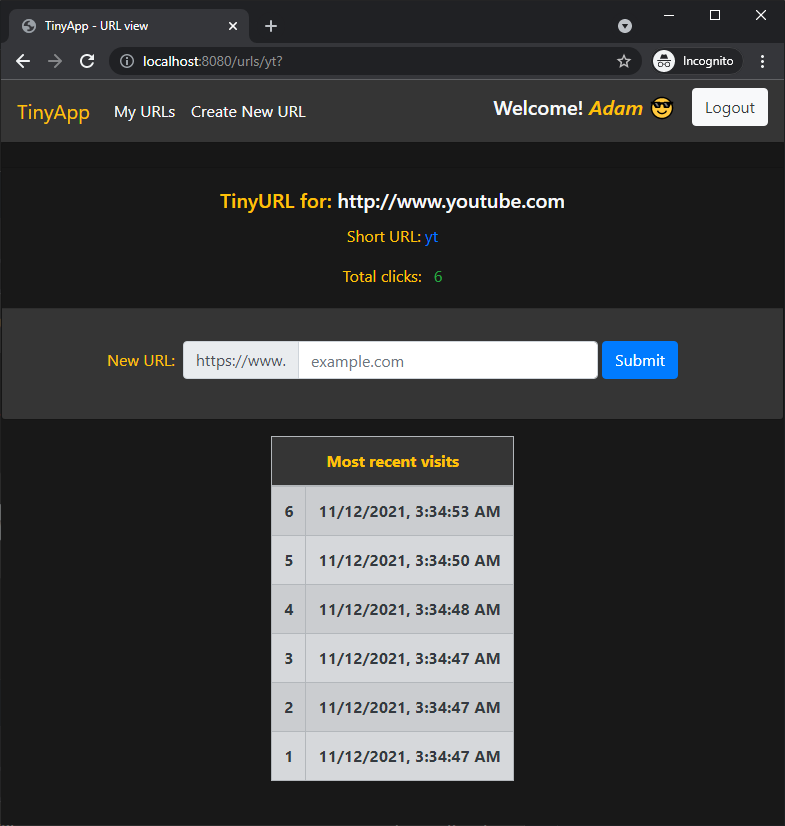
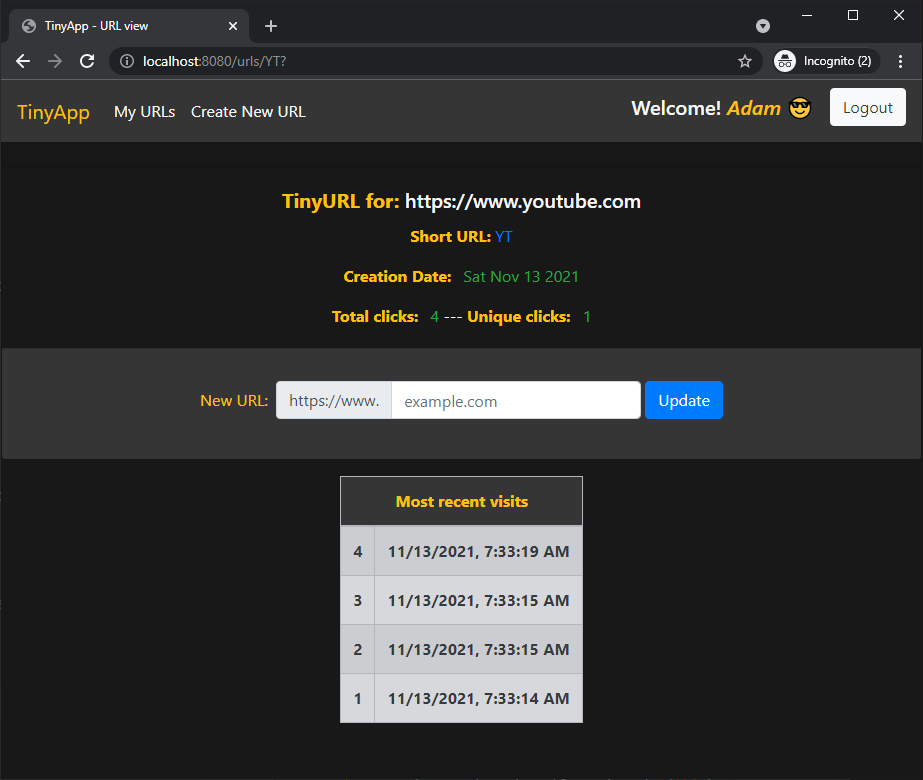
adding last touches + updating README + screenies

diff --git a/README.md b/README.md
@@ -6,10 +6,10 @@ TinyApp is a full stack web application that I built in order to familiarize mys
 - Shorten any long URL into a 6-char TinyURL to be shared with others
 - View and manage all your URLs through your account's dashboard, from 'My URLs' page
 - Easily Add/Edit/Delete any of your TinyURLs
-- Hashed passwords and Encrypted Cookies to ensure safety of sesitive information
+- Hashed passwords and Encrypted Cookies to ensure safety of sensitive information
 - Track the number of clicks/visits your TinyURL receives (NEW!)
 - See stats of all visitors by viewing the time and date they viewed your TinyURL (NEW!)
-- Track the number of UNIQUE visitors on your TinyURL (In-progress!)
+- Track the number of UNIQUE visitors on your TinyURL (NEW!)
 
 ## Final Product
 
